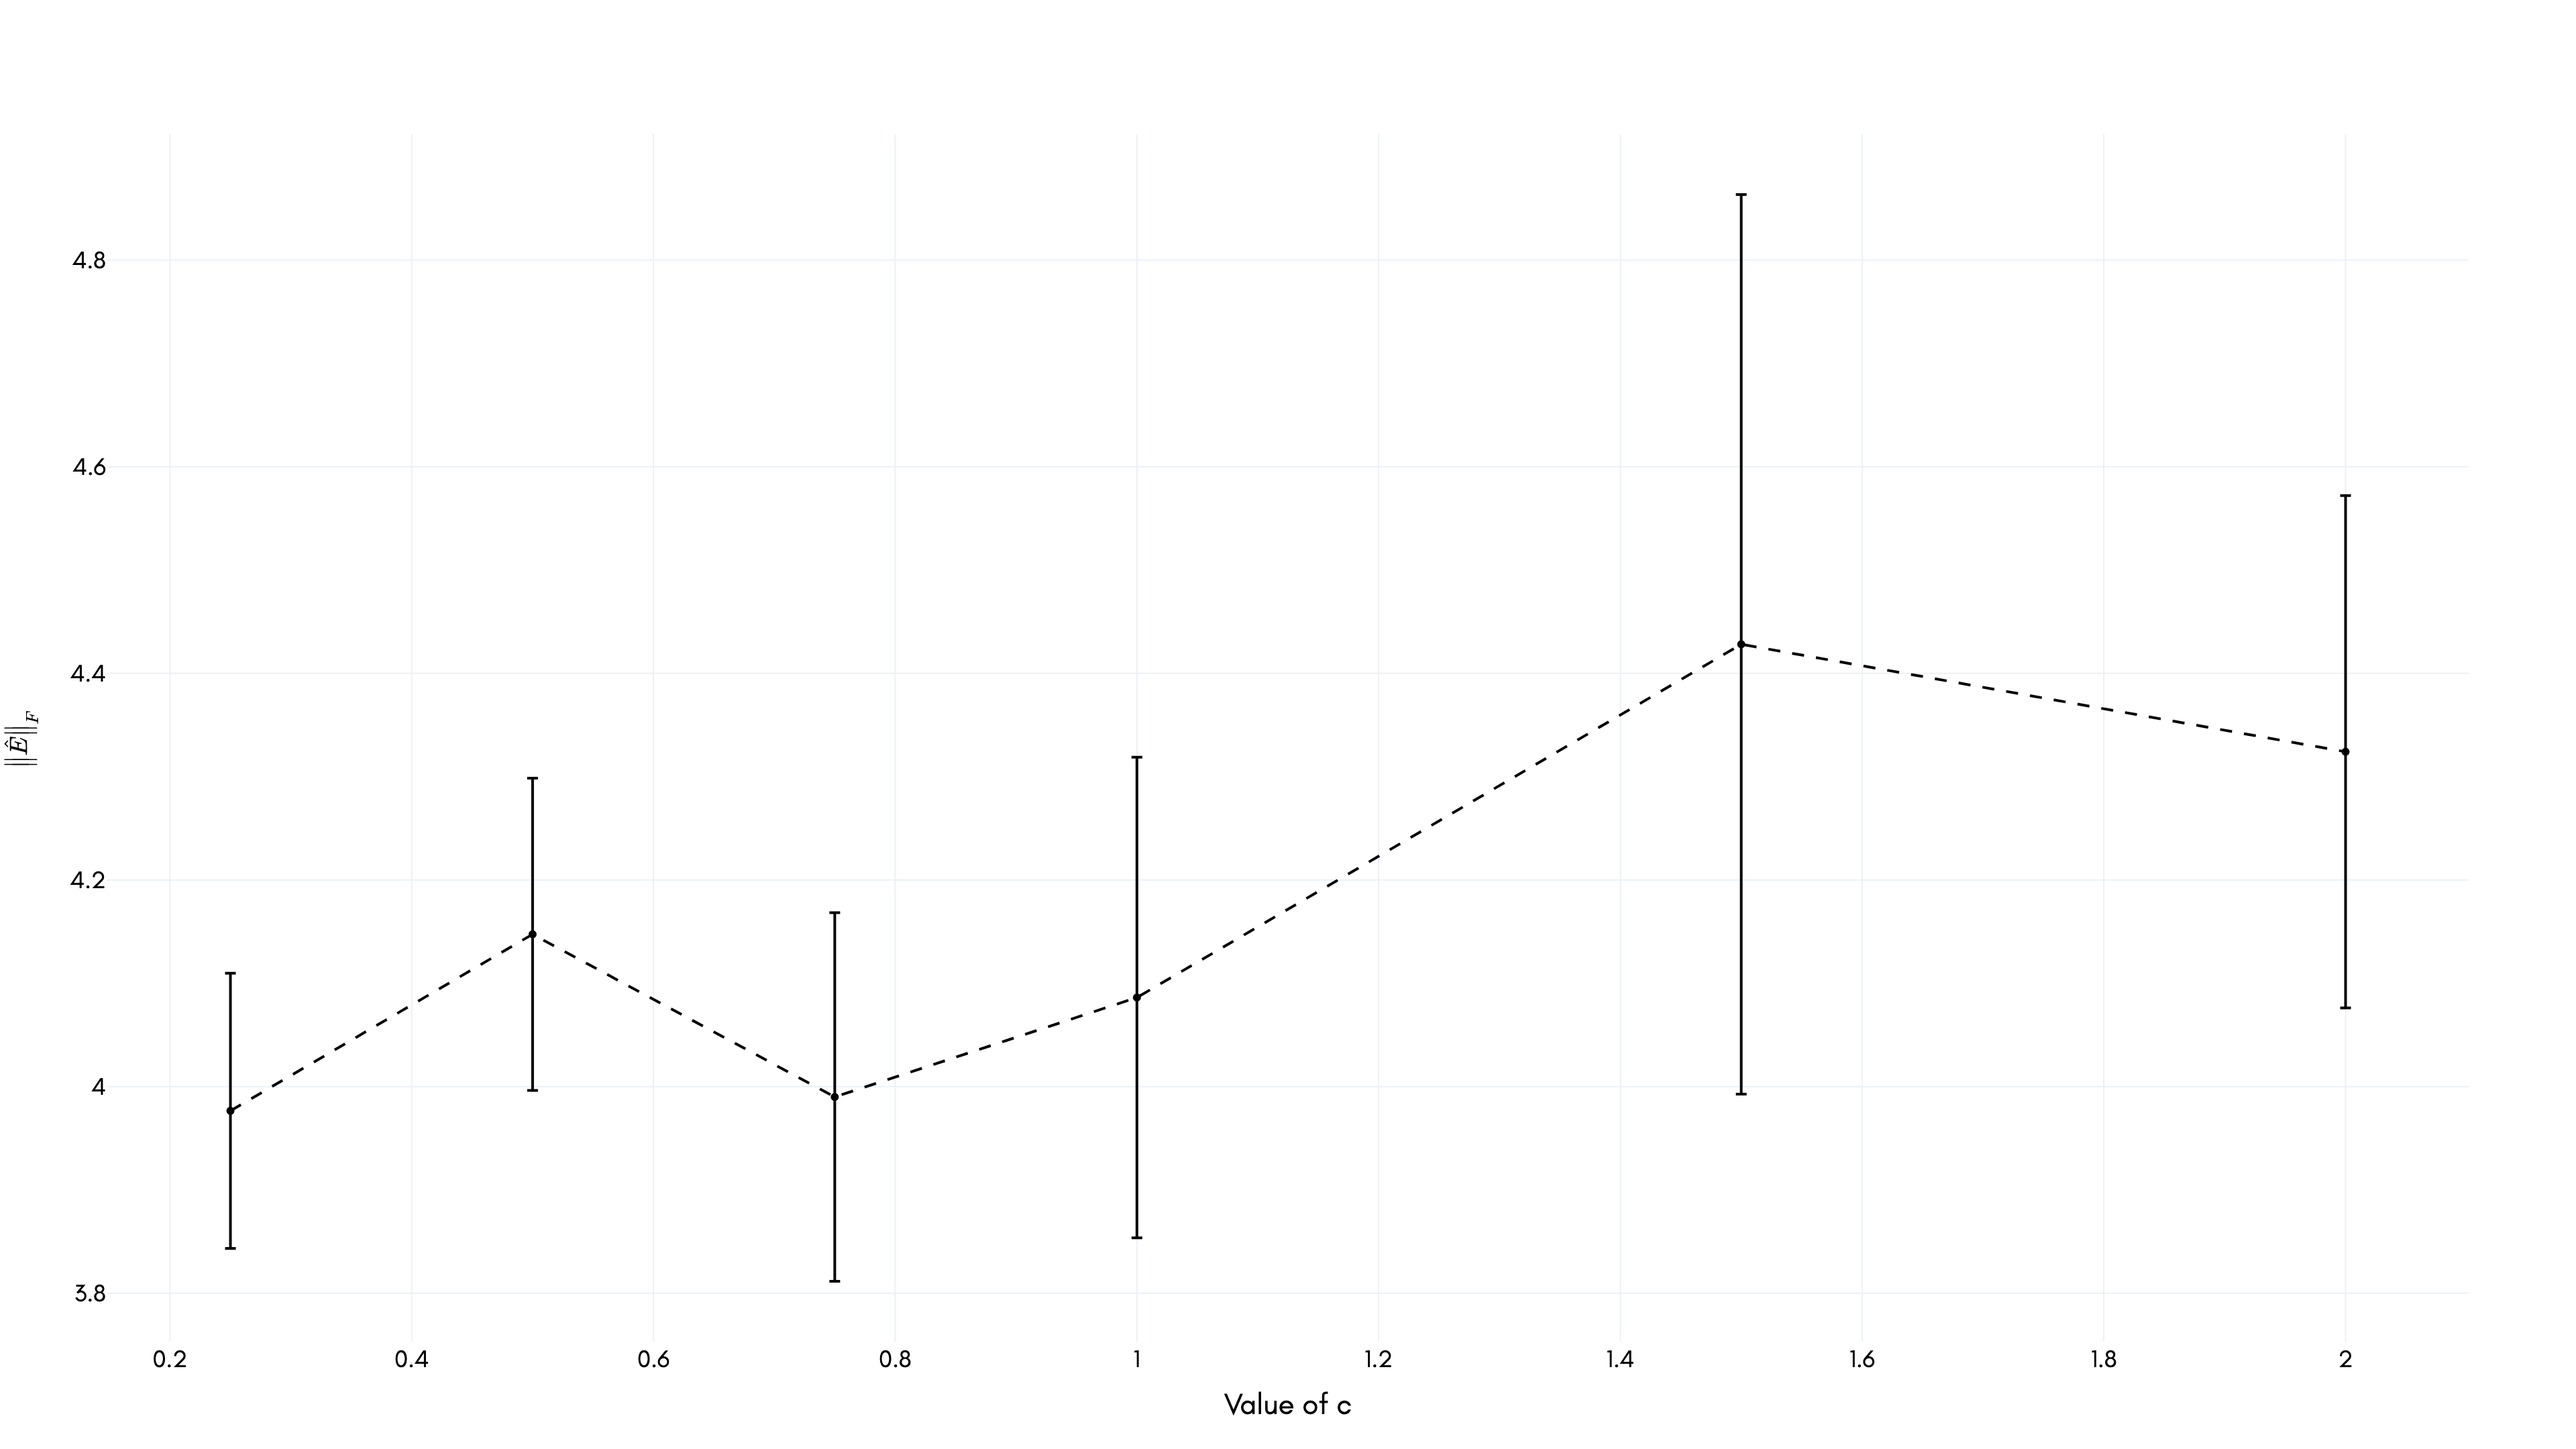
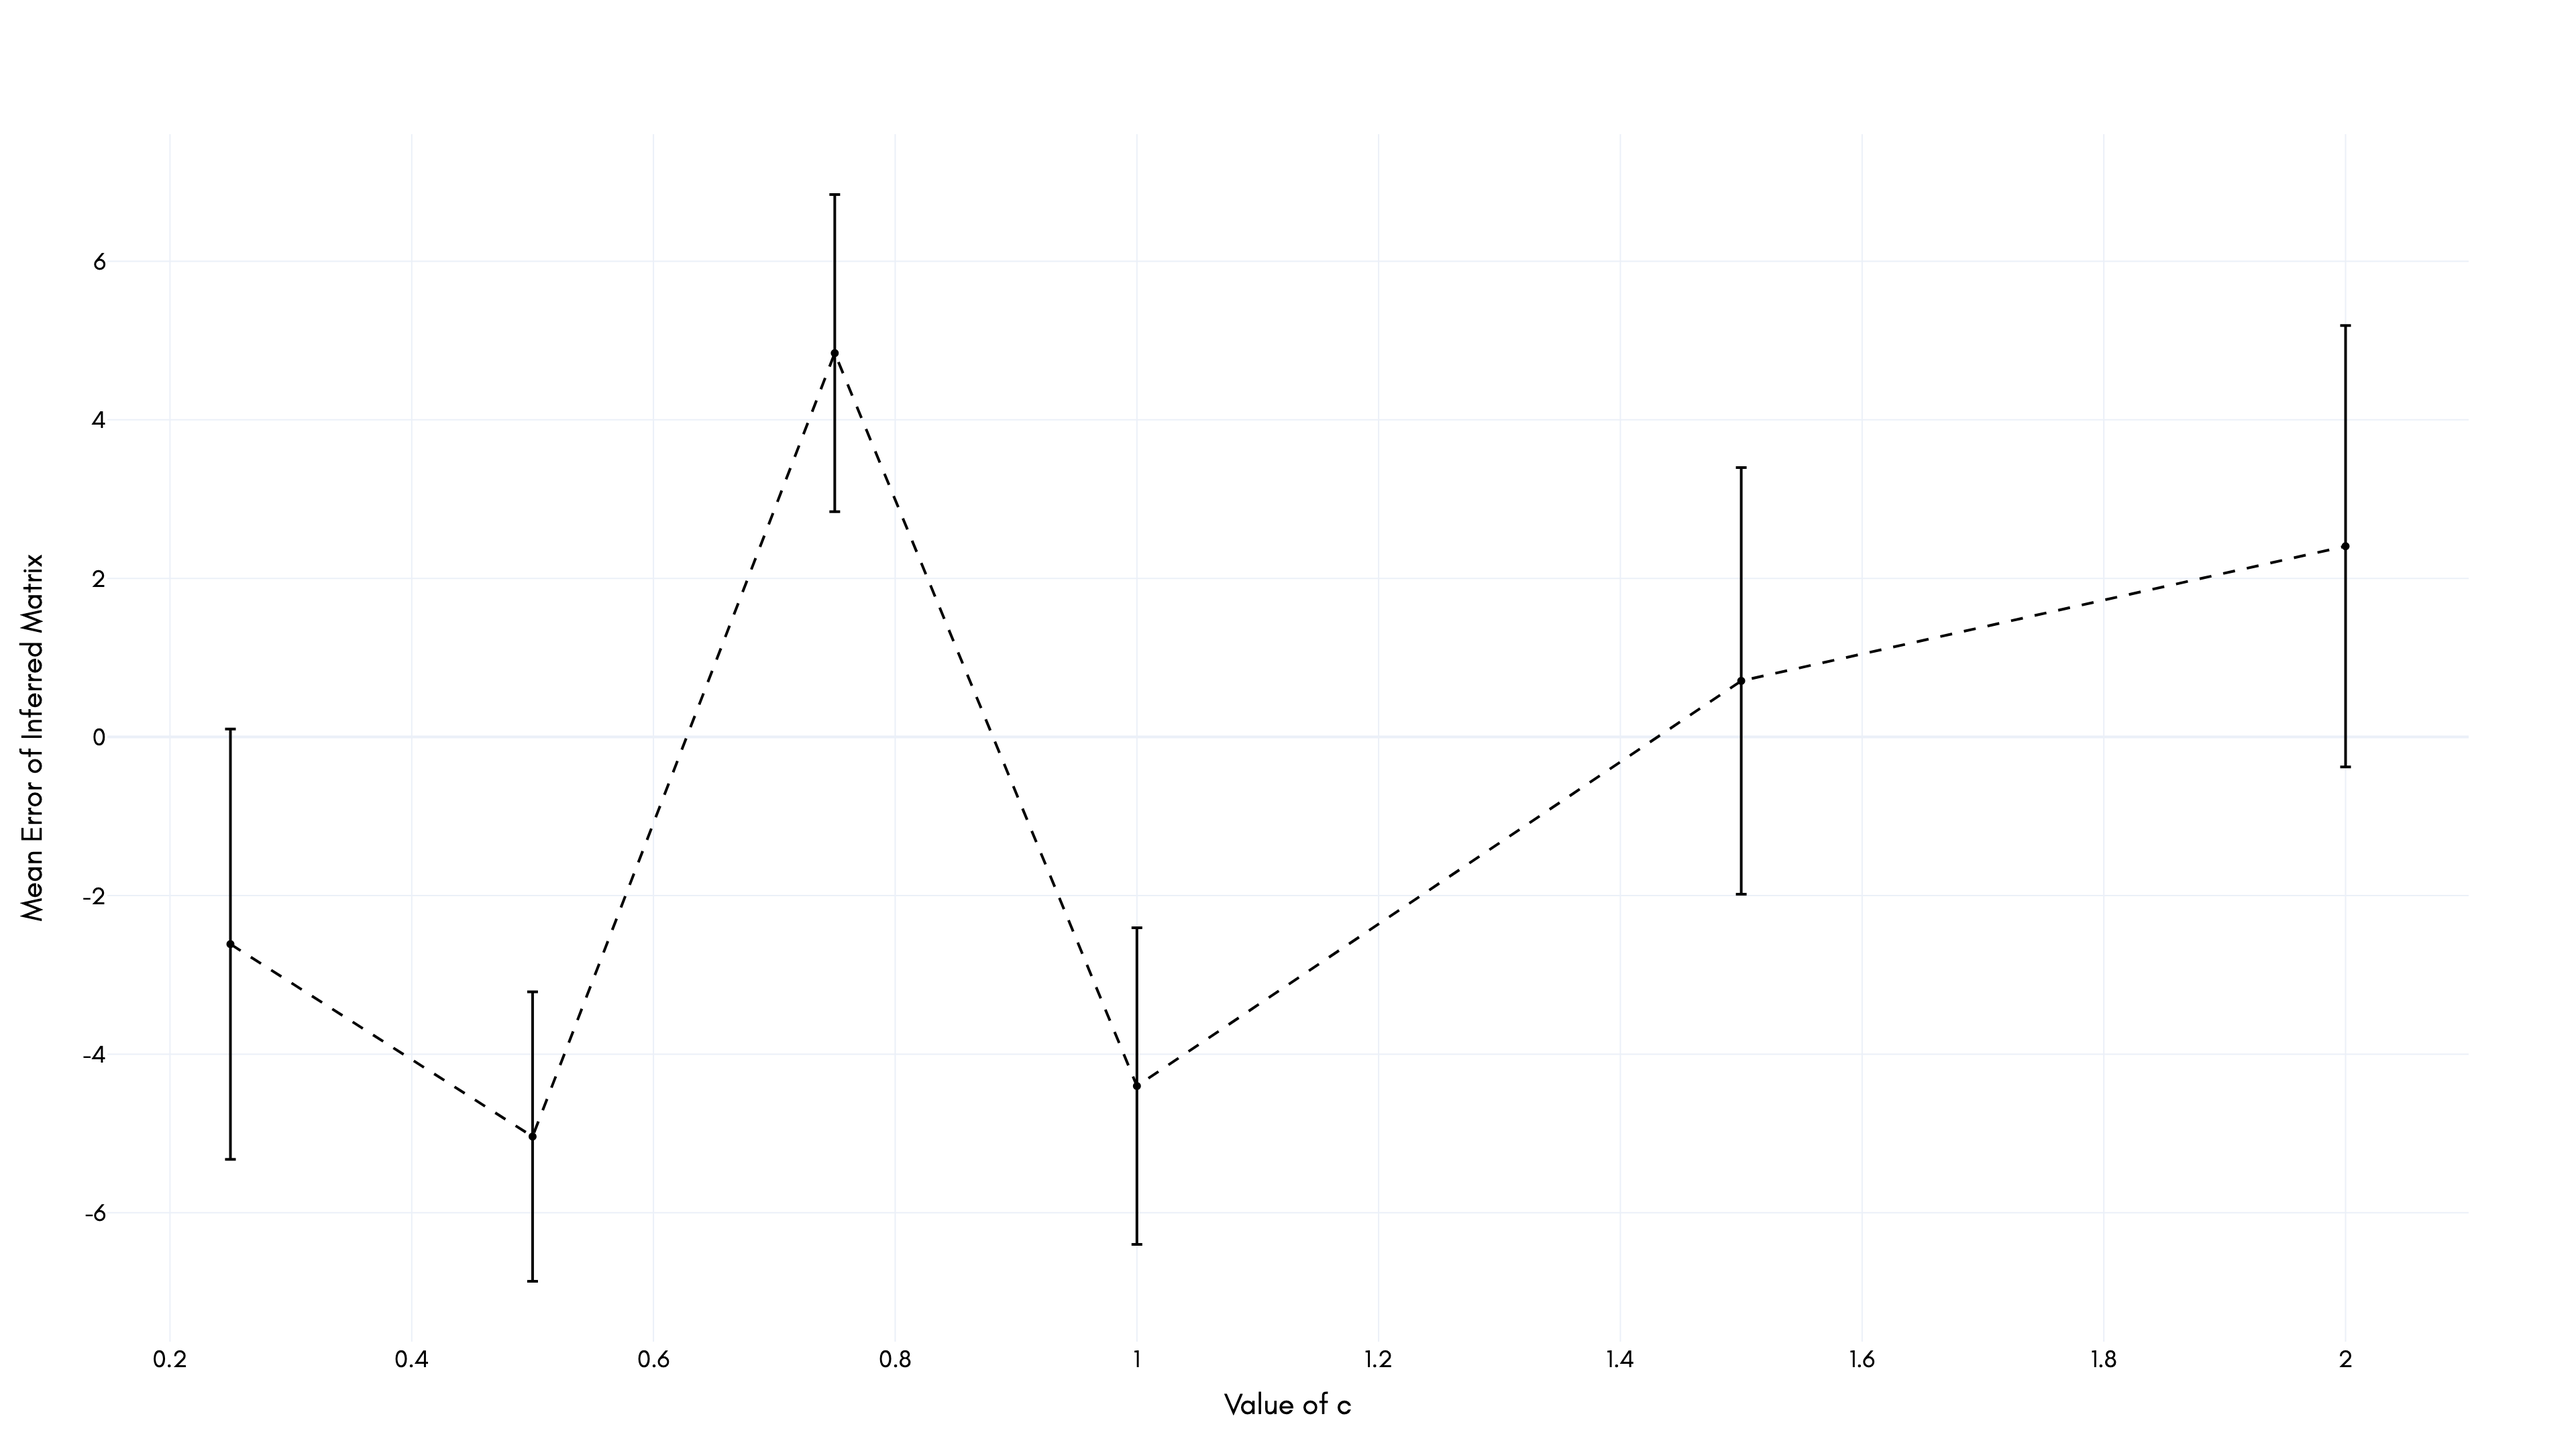
graph edits

Changed region(s): [[0.0, 0.4653, 0.0312, 0.5273], [0.0, 0.5894, 0.0312, 0.6204], [0.0, 0.4032, 0.0312, 0.4343]]

diff --git a/thesis/error_analysis.py b/thesis/error_analysis.py
@@ -196,9 +196,13 @@ def data_to_csv():
 
     mean_error_guess_norm = []
     sd_error_guess_norm = []
+    mean_error_guess = []
+    sd_error_guess = []
 
     mean_error_optim_norm = []
     sd_error_optim_norm = []
+    mean_error_optim = []
+    sd_error_optim = []
 
     mean_improved = []
     sd_improved = []
@@ -213,7 +217,9 @@ def data_to_csv():
 
     for c in c_values:
         error_guess_norms_temp = []
+        error_guess_temp = []
         error_optim_norms_temp = []
+        error_optim_temp = []
         num_improved_temp = []
         likelihood_guess_temp = []
         likelihood_optim_temp = []
@@ -242,6 +248,8 @@ def data_to_csv():
             num_improved = np.sum(error_optim < error_guess)
             error_guess_norm = np.linalg.norm(error_guess)
             error_optim_norm = np.linalg.norm(error_optim)
+            error_guess_temp.append(np.sum(error_guess))
+            error_optim_temp.append(np.sum(error_optim))
 
             improved_params.append(num_improved)
             num_improved_temp.append(num_improved)
@@ -254,8 +262,14 @@ def data_to_csv():
         mean_error_guess_norm.append(np.mean(error_guess_norms_temp))
         sd_error_guess_norm.append(np.std(error_guess_norms_temp))
 
+        mean_error_guess.append(np.mean(error_guess_temp))
+        sd_error_guess.append(np.std(error_guess_temp))
+
         mean_error_optim_norm.append(np.mean(error_optim_norms_temp))
         sd_error_optim_norm.append(np.std(error_optim_norms_temp))
+
+        mean_error_optim.append(np.mean(error_optim_temp))
+        sd_error_optim.append(np.std(error_optim_temp))
 
         mean_improved.append(np.mean(num_improved_temp))
         sd_improved.append(np.std(num_improved_temp))
@@ -289,10 +303,14 @@ def data_to_csv():
         {
             "mean_error_guess_norm": mean_error_guess_norm,
             "sd_error_guess_norm": sd_error_guess_norm,
+            "mean_error_guess": mean_error_guess,
+            "sd_error_guess": sd_error_guess,
             "mean_likelihood_guess": mean_likelihood_guess,
             "sd_likelihood_guess": sd_likelihood_guess,
             "mean_error_optim_norm": mean_error_optim_norm,
             "sd_error_optim_norm": sd_error_optim_norm,
+            "mean_error_optim": mean_error_optim,
+            "sd_error_optim": sd_error_optim,
             "mean_likelihood_optim": mean_likelihood_optim,
             "sd_likelihood_optim": sd_likelihood_optim,
             "true_likelihood": true_likelihoods_agg,
@@ -321,17 +339,15 @@ def error_bars_optim(show: bool = False, save_path: str = None):
     fname = "experiment-results/error_aggregated.csv"
     data = pd.read_csv(fname).drop(columns=["Unnamed: 0"])
 
-    data["margin_error_optim_norm"] = (
-        critical_t * data["sd_error_optim_norm"] / np.sqrt(number_trials - 1)
+    data["margin_error_optim"] = (
+        critical_t * data["sd_error_optim"] / np.sqrt(number_trials - 1)
     )
 
     fig = go.Figure(
         data=go.Scatter(
             x=data["c"],
-            y=data["mean_error_optim_norm"],
-            error_y=dict(
-                type="data", array=data["margin_error_optim_norm"], visible=True
-            ),
+            y=data["mean_error_optim"],
+            error_y=dict(type="data", array=data["margin_error_optim"], visible=True),
             line=dict(color="black", width=2, dash="dash"),
         )
     )
@@ -340,7 +356,7 @@ def error_bars_optim(show: bool = False, save_path: str = None):
         font_family="Glacial Indifference",
         font_color="black",
         font_size=18,
-        yaxis_title=r"$\left\lVert \hat{E} \right\rVert_F$",
+        yaxis_title="Mean Error of Inferred Matrix",
         xaxis_title="Value of c",
         legend_title_font_color="black",
         template="plotly_white",
